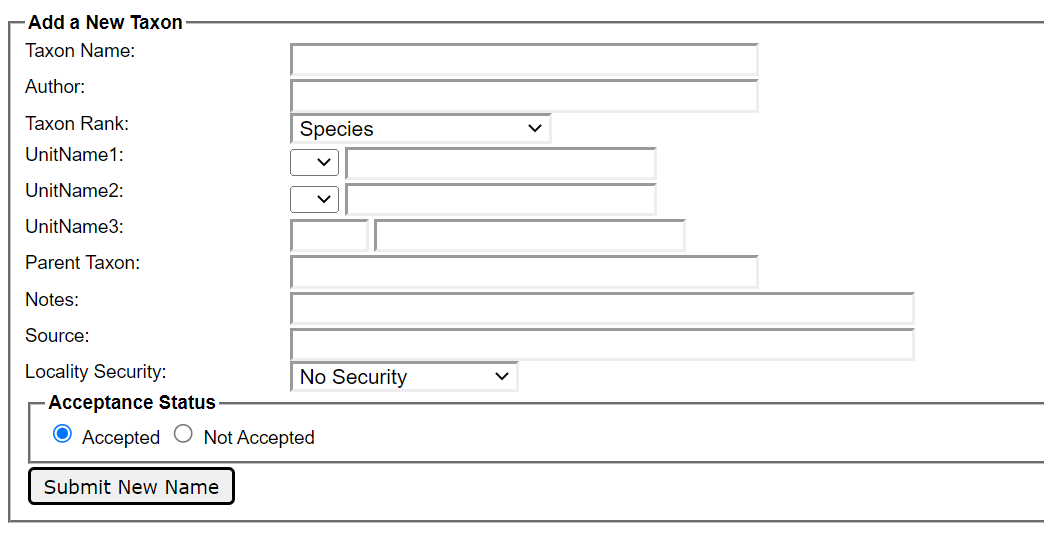
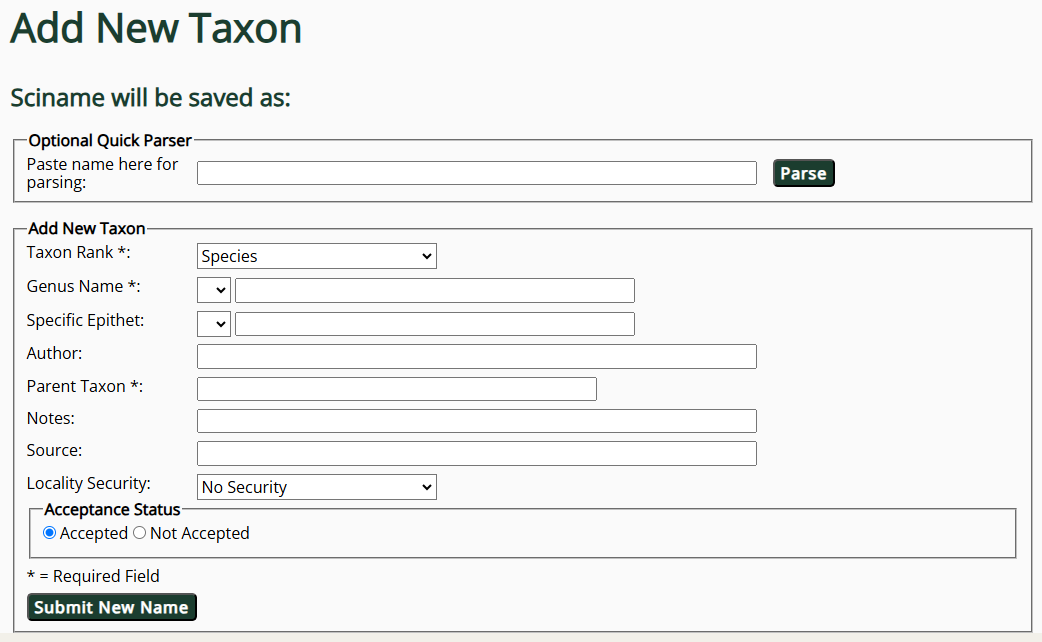
New taxonomy add and edit forms

Changed region(s): [[0.0, 0.0, 1.0, 1.0]]

diff --git a/content/portal_manager/taxonomy/edit/_index.en.md b/content/portal_manager/taxonomy/edit/_index.en.md
@@ -1,7 +1,7 @@
 ---
 title: "Editing Taxonomic Names / Synonymy"
 date: 2023-02-09
-lastmod: 2023-02-09
+lastmod: 2025-01-30
 authors: ["Katie Pearson"]
 editors: [""]
 draft: false
@@ -16,22 +16,22 @@ keywords: ["taxonomy","taxonomic thesaurus","synonymy","accepted names","localit
 The taxonomic thesaurus of a Symbiota portal requires frequent curation due to taxonomic changes. Editing taxonomic names and synonymy requires some care because of the many linkages between taxa and their children taxa and synonyms.
 
 1. Navigate to the taxonomic thesaurus (Sitemap > scroll down to Taxonomy > Taxonomic Tree Viewer), or just add "taxa/taxonomy/taxonomydisplay.php" to your base path.
-2. Search for the name of the taxon you would like to edit in the **Taxon** box.
-3. Click the pencil icon to the right of the taxon you would like to edit.
+2. Search for the name of the taxon you would like to edit in the **Taxon** box and click the Display Taxon Tree button.
+3. In the resulting taxonomic tree, click the pencil icon to the right of the taxon you would like to edit.
 
 ### Editing basic information (name, authorship, source, locality security)
 
-* In the Editor tab, you can edit the scientific name, rank, notes, source, and whether the taxon's locality information is globally redacted for all occurrences in the portal. Click the pencil icon in the top right corner of the page to edit these fields.
+* In the Editor tab, you can edit the scientific name, rank, notes, source, and whether the taxon's locality information is globally redacted for all occurrences in the portal. Click the pencil icon in the top right corner of the page to edit these fields. **Note that the fields available to edit will depend on the Rank Name (Taxon Rank) of the taxon.**
 
 ![Taxon Editing Form](/symbiota-docs/images/edittaxon.PNG)
 
 ### Changing the parent or accepted name of a taxon
 
-* In the Taxonomic Status tab, you can change the parent taxon name or switch the taxon from being accepted to not accepted (or vice versa). Click the pencil icon to the right of the name type that you would like to change.
+* In the Taxonomic Status tab, you can change the parent taxon name or switch the taxon from being accepted to not accepted (or vice versa). Click the pencil icon (circled below) to the right of the name type that you would like to change.
 * Whenever possible, provide a link or citation for the change in acceptance. For example, you might add a link to the a Plants of the World Online entry, a literature citation with DOI, etc.
 
 {{< notice note >}}
-  If you are changing a taxon to Not Accepted, you must also resolve the accepted status of all children taxa of that taxon individually before the target taxon. The children taxa are listed in the Children Taxa tab and can be accessed and modified through links in that tab. 
+  If you are changing a taxon to Not Accepted, you may see the following warning: "Taxon cannot be changed to Not Accepted until accepted child taxa are resolved". This means you must resolve the accepted status of all children taxa of that taxon individually before you can do so for the target taxon. The children taxa are listed in the Children Taxa tab and can be accessed and modified through links in that tab. 
 {{</ notice >}}
 
 ![Edit Taxonomic Placement](/symbiota-docs/images/edittaxonomicplacement.PNG)
@@ -40,6 +40,6 @@ The taxonomic thesaurus of a Symbiota portal requires frequent curation due to t
 ### Deleting a taxon
 
 * In the Delete tab, you can delete a taxon from the taxonomic thesaurus. Before doing so, you must resolve all linkages to that taxon as listed in this tab.
-* To move all the linkages and resources from one taxon to another (e.g., in the case of duplicate taxonomic names entered in the thesaurus), enter the name of the taxon in the Remap Resources to Another Taxon box and click the Remap Taxon button.
+* To move all the linkages and resources from one taxon to another (e.g., in the case of duplicate taxonomic names entered in the thesaurus), enter the name of the taxon in the Remap Resources to Another Taxon box and click the Remap Taxon button. Note that this will completely delete the taxon that you are currently viewing.
 
 ![Deleting a Taxon](/symbiota-docs/images/deletetaxon.PNG)

diff --git a/content/portal_manager/taxonomy/add/_index.en.md b/content/portal_manager/taxonomy/add/_index.en.md
@@ -1,7 +1,7 @@
 ---
 title: "Adding Taxa to the Taxonomic Thesaurus"
 date: 2023-02-09
-lastmod: 2023-02-09
+lastmod: 2025-01-30
 authors: ["Katie Pearson"]
 editors: [""]
 draft: false
@@ -27,21 +27,22 @@ Additional information about options 1 and 2 are provided below (see the link ab
 {{</ notice >}}
 
 1. Navigate to the taxonomic thesaurus (Sitemap > scroll down to Taxonomy > Taxonomic Tree Viewer), or just add "taxa/taxonomy/taxonomydisplay.php" to your base path.
-2. Click the green plus sign at the top right corner of the screen.
-3. Enter information about the taxon in the provided form.
+2. Click the "add" icon at the top right corner of the screen.
+3. Enter information about the taxon in the provided form (see below for guidance).
 ![Taxon Data Entry Form](/symbiota-docs/images/addnewtaxon.PNG)
 
-* Enter the taxonomic name *without the authorship* in the **Taxon Name** field
-* Enter the authorship into the **Author** field
-* For hybrid taxa, select the multiplication symbol from the dropdown list in front of the UnitName2 field
-* For infraspecific taxa, use the small UnitName3 field for the infraspecific epithet type (e.g., var., subsp., f.), if applicable, and the long UnitName3 field for the infraspecific epithet.
-* Select the appropriate taxon rank from the dropdown **Taxon Rank** field
-* The form will automatically parse out the UnitName1, UnitName2, and UnitName3. Adjust these if necessary.
+* You can copy and paste the entire name (with authorship) into the Quick Parser at the top of the form to have the page attempt to parse out the pieces of the name. Make sure to check that the form has correctly assigned a Taxon Rank and has properly parsed the pieces of the name. If not, manually replace the values in form with the correct ones.
+* Select the appropriate value from the Taxon Rank dropdown menu. The fields you will see afterward will depend on the taxon rank that you specify.
+* Enter the authorship into the **Author** field.
+* For hybrid taxa, select the multiplication symbol from the dropdown list in front of the appropriate field.
+* For infraspecific taxa (e.g., varieties or subspecies), use the small field for the infraspecific epithet type (e.g., var., subsp., f.), if applicable, and the long field for the infraspecific epithet.
+* Begin to type the name of the parent taxon (i.e., the taxon one taxonomic rank above the taxon you are adding) into the Parent Taxon field and select the correct name from the dropdown list. _If you are adding cultivar with a cultivar epithet or trade name, the parent taxon should be the corresponding genus._
 * **IMPORTANT:** Add a link or citation for the source of the scientific name you are adding, for example, a Plants of the World Online entry, a literature citation with DOI, etc.
-* If the taxonomic name you are adding is the currently accepted name, leave the *Accepted* radio button checked. If the taxonomic name is not accepted, select the *Not Accepted* radio button and enter the accepted name in the provided field. *If the name of the accepted species is not found in the taxonomic thesaurus (i.e., does not appear in the dropdown menu), you must add that name to the thesaurus first.*
+* If the taxonomic name you are adding is the currently accepted name, leave the *Accepted* radio button checked. If the taxonomic name is not accepted, select the *Not Accepted* radio button and enter the accepted name in the provided field.
+* As you enter the name into the form, check that it appears as expected at the top of the form after "Sciname will be saved as."
 
-{{< notice note >}}
-  If you edit anything in the **Taxon Name** field after you have added to the **Author**, **Notes**, or **Source** fields, it will reset the form and clear anything you have entered into these fields.
+{{< notice tip >}}
+  If you do not find the Parent Name or the Accepted Name in the dropdown lists, you will need to add the parent name or accepted name to the taxonomic thesaurus **first**.
 {{</ notice >}}
 
 ### Batch adding taxa using the Taxonomic Cleaning Tool
